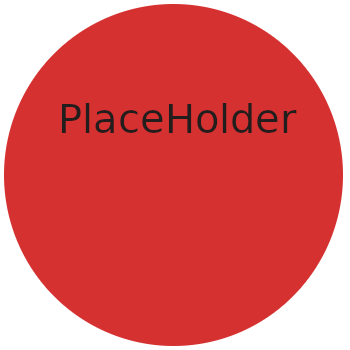
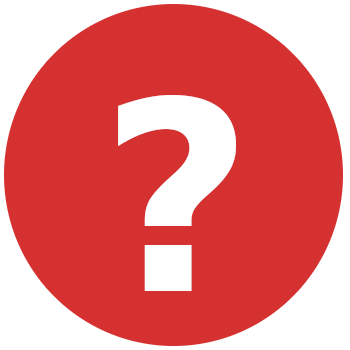
Added free use images

Changed region(s): [[0.1714, 0.2571, 0.8571, 0.6571], [0.4, 0.6857, 0.5714, 0.8286]]

diff --git a/index.html b/index.html
@@ -115,7 +115,7 @@
                                 <i class="fa fa-plus fa-3x"></i>
                             </div>
                         </div>
-                        <img src="img/services/PlaceHolder.png" class="img-responsive" alt="">
+                      <img src="img/services/PlaceHolder.png" class="img-responsive" alt="">
                     </a>
                     <div class="portfolio-caption">
                         <h4>What Is Physiotherapy?</h4>
@@ -128,7 +128,7 @@
                                 <i class="fa fa-plus fa-3x"></i>
                             </div>
                         </div>
-                        <img src="img/services/PlaceHolder.png" class="img-responsive" alt="">
+                        <img src="img/services/Conditions.png" class="img-responsive" alt="">
                     </a>
                     <div class="portfolio-caption">
                         <h4>Conditions Treated</h4>
@@ -141,7 +141,7 @@
                                 <i class="fa fa-plus fa-3x"></i>
                             </div>
                         </div>
-                        <img src="img/services/PlaceHolder.png" class="img-responsive" alt="">
+                        <img src="img/services/Treatment.png" class="img-responsive" alt="">
                     </a>
                     <div class="portfolio-caption">
                         <h4>Types Of Treatment</h4>
@@ -424,7 +424,7 @@
                     <div class="col-lg-8 col-lg-offset-2">
                         <div class="modal-body">
                             <h2>Types Of Treatment</h2>
-                            <img class="img-responsive img-centered" src="img/services/PlaceHolder.png" alt="">
+                            <img class="img-responsive img-centered" src="img/services/Treatment.png" alt="">
                             <p style="text-align:justify;">Physiotherapists are trained to assess your condition, diagnose the problem, and help you, the patient, understand what is wrong. Physiotherapists will not only treat the problem but by spending time with the patient will often be able to show the patient how to minimise the impact of their problem and to help prevent the problem happening again.</p>
                             <p style="text-align:justify;">Physiotherapists use a whole host of treatment techniques. For example;
 										<ul style="text-align:justify;">
@@ -459,7 +459,7 @@
                         <div class="modal-body">
                             <!-- Project Details Go Here -->
                             <h2>Conditions Treated</h2>
-                            <img class="img-responsive img-centered" src="img/services/PlaceHolder.png" alt="">
+                            <img class="img-responsive img-centered" src="img/services/Conditions.png" alt="">
                             <p style="text-align:justify;">
 	                            <ul style="text-align:justify;">
 		                            <li><strong>Spinal problems</strong> – including prolapsed discs, degeneration, sciatica, stiff/painful neck and referred arm and leg pains</li>
